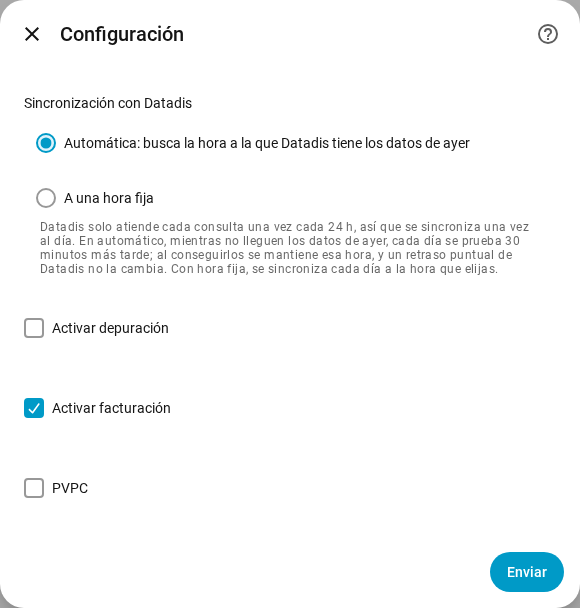
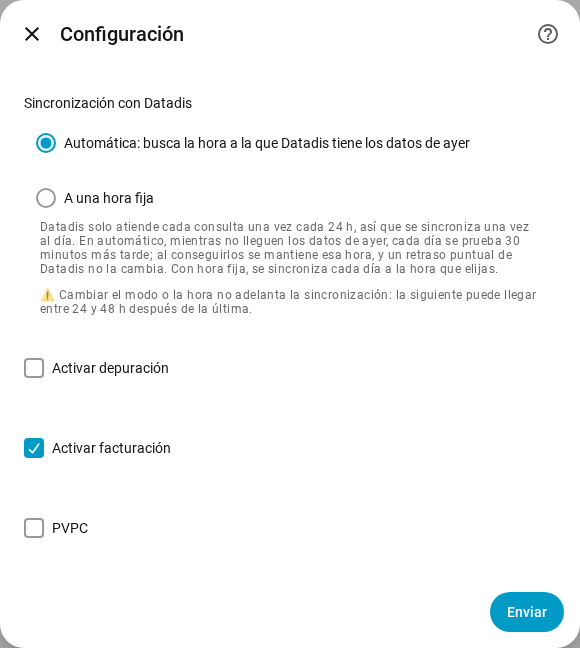
docs: warn that changing the sync mode or time can delay the next sync 24-48 h

diff --git a/README.md b/README.md
@@ -444,6 +444,8 @@ Todos devuelven una lista de pares `[marca de tiempo en ms, valor]`, salvo `edat
 > - **A una hora fija**: sincroniza cada día a la hora que elijas. Como entre dos sincronizaciones tienen que pasar al menos 24 h, si una termina unos segundos tarde la siguiente espera esos segundos; cuando el retraso acumulado llega a una hora, se salta un día para volver a la hora elegida. Lo mismo ocurre el día del cambio al horario de verano, que solo tiene 23 h.
 >
 > Si Datadis no responde, se reintenta cada hora sin cambiar la hora de sincronización.
+>
+> ⚠ Cambiar el modo o la hora no adelanta la sincronización: la siguiente puede llegar entre 24 y 48 h después de la última.
 
 **¿Sirve de algo reiniciar Home Assistant o borrar la caché?**
 
